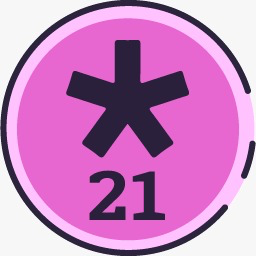
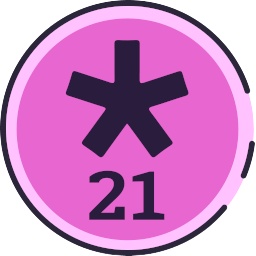
Updated images

diff --git a/src/app/services/core.service.ts b/src/app/services/core.service.ts
@@ -44,9 +44,9 @@ export class CoreService {
       },
       {
         id: 'MTB21',
-        image: 'assets/images/mtb20/image.png',
-        bottleImage: 'assets/images/mtb20/bottle.png',
-        tokenIcon: 'assets/images/mtb20/token.png',
+        image: 'assets/images/mtb21/image.png',
+        bottleImage: 'assets/images/mtb21/bottle.png',
+        tokenIcon: 'assets/images/mtb21/token.png',
         // crowdsaleAddress: '0x5411bffa359fF9cEbA0ED275aC5F00aB3435cB47',
         // tokenAddress: '0x6a2f414e1298264ecd446d6bb9da012760336a4f',
         // redeemDate: "product.redeem.20",
